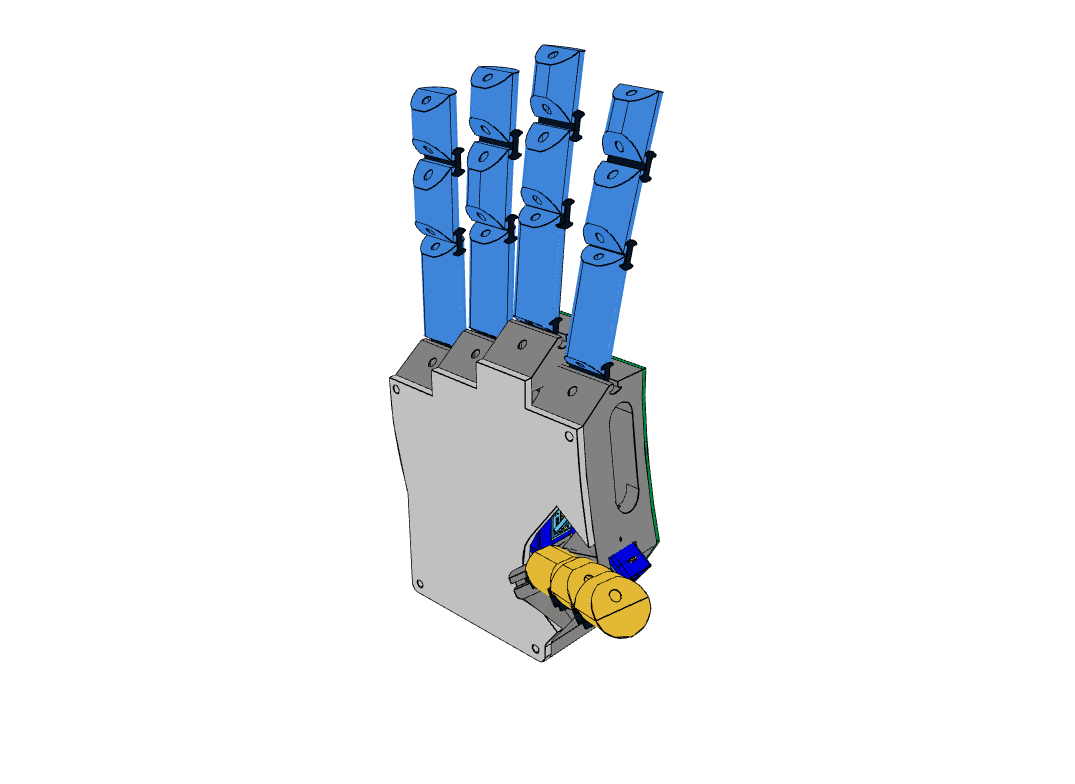
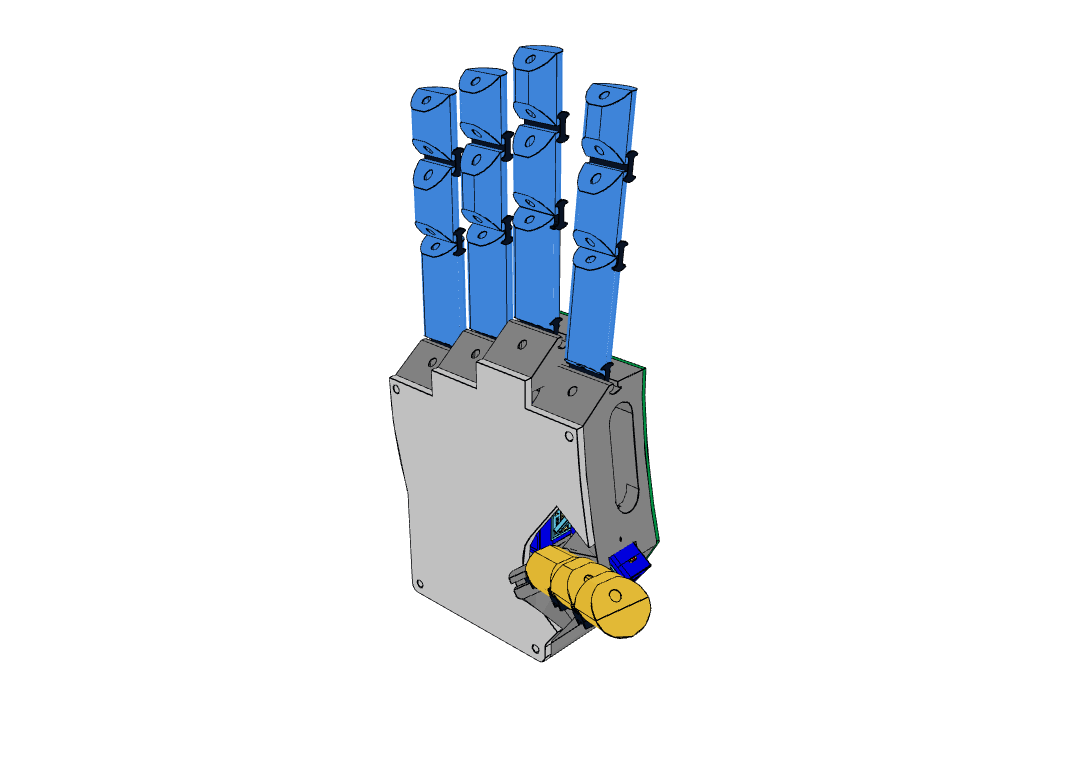
Re-bake robot-hand shaded posters at rest pose and bump poster cache version

Changed region(s): [[0.4298, 0.0306, 0.614, 0.4898]]

diff --git a/src/canvas/ModelPreloadManager.ts b/src/canvas/ModelPreloadManager.ts
@@ -4,7 +4,7 @@ import { useGLTF } from '@react-three/drei';
 // Use self-hosted Draco WASM decoder for all GLB models (eliminates external gstatic CDN fetches)
 useGLTF.setDecoderPath('./draco/gltf/');
 
-export const POSTER_VERSION = '20261012-v4';
+export const POSTER_VERSION = '20261016-v1';
 
 let isWindowScrolling = false;
 let scrollStopTimer: ReturnType<typeof setTimeout> | null = null;
